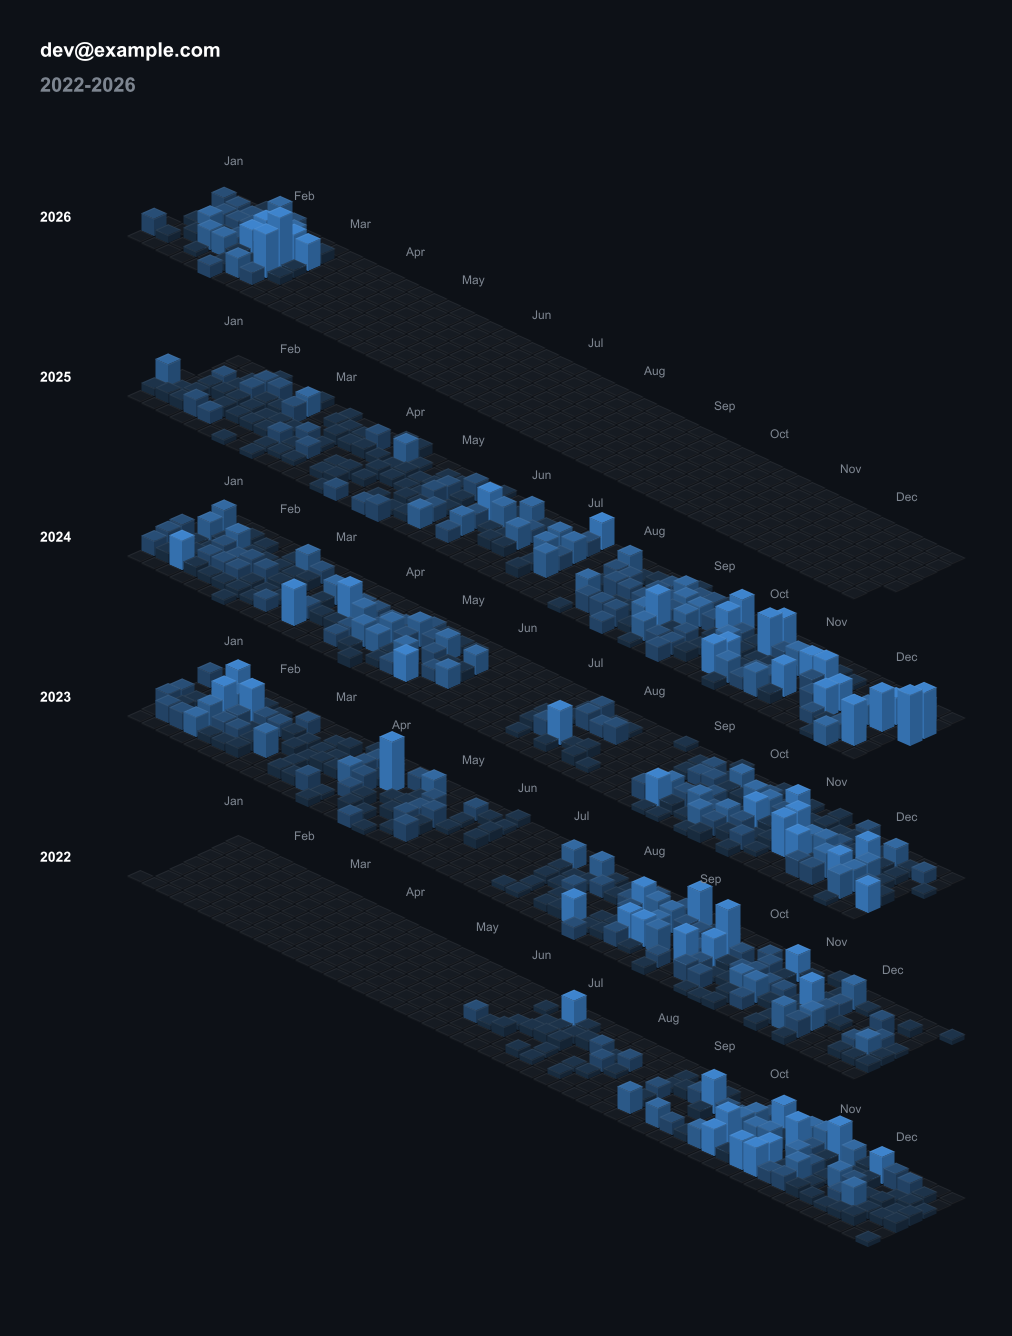
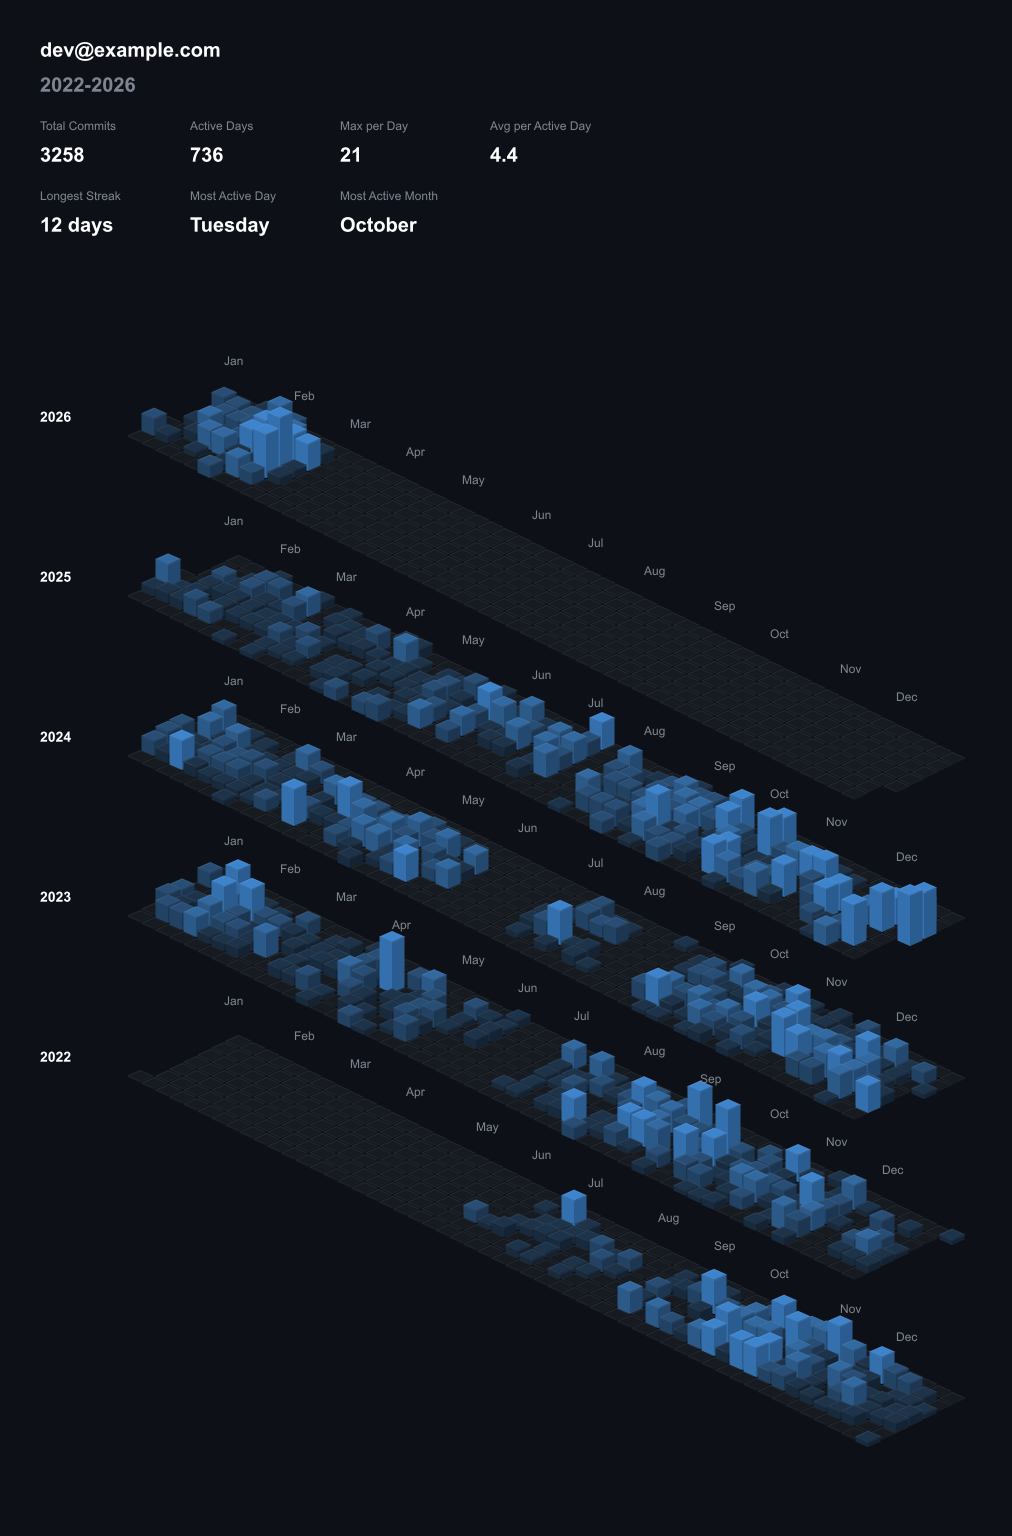
Add additional example heatmap images to README

diff --git a/README.md b/README.md
@@ -2,7 +2,11 @@
 
 A C# .NET console application that generates a Git activity heatmap image from a local Git repository.
 
+Example of a Git activity heatmap using the default vertical layout and default color scheme:  
 ![Git Heatmap Example](example/heatmap_2022-2026_example.png)
+
+Example of a Git activity heatmap using 3D isometric layout with a custom color scheme:  
+![Git Heatmap Example](example/heatmap_3D_isometric_2022-2026_example.png)
 
 ## Features
 
